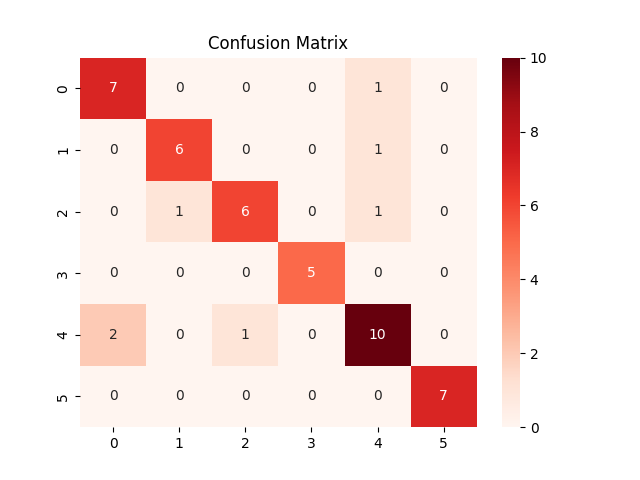
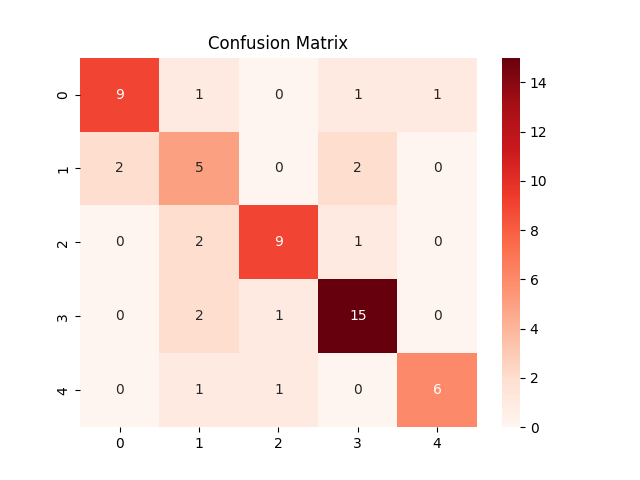
adapted to new data

diff --git a/Anomalieerkennung_DNN/train.py b/Anomalieerkennung_DNN/train.py
@@ -15,20 +15,20 @@ def train_cnn(epoch, batch_size, train_images, train_labels, val_images, val_lab
         layers.Flatten(),
         layers.Dense(128, activation='relu'),
         layers.Dropout(0.2),
-        layers.Dense(6, activation='softmax')])
+        layers.Dense(5, activation='softmax')])
 
     # compile cnn
     cnn_model.compile(optimizer='adam',
                       loss=tf.keras.losses.SparseCategoricalCrossentropy(),
                       metrics=['accuracy'])
     
-    #callback = tf.keras.callbacks.EarlyStopping(monitor='val_loss', patience=10)
-    #reduce_lr = tf.keras.callbacks.ReduceLROnPlateau(monitor='val_loss', factor=0.2,
-    #                          patience=5, min_lr=0.001)
+    callback = tf.keras.callbacks.EarlyStopping(monitor='val_accuracy', patience=7, restore_best_weights=True)
+    reduce_lr = tf.keras.callbacks.ReduceLROnPlateau(monitor='val_accuracy', factor=0.2,
+                              patience=5, min_lr=0.001)
 
     # fit cnn
     history = cnn_model.fit(train_images, train_labels,
-                            batch_size=batch_size, epochs=epoch, validation_data=(val_images, val_labels))
+                            batch_size=batch_size, epochs=epoch, validation_data=(val_images, val_labels), callbacks=[callback, reduce_lr])
 
     cnn_history_df = pd.DataFrame(history.history)
 
@@ -42,21 +42,21 @@ def train_minicnn(epoch, batch_size, train_images, train_labels, val_images, val
                       padding='same', input_shape=(224, 224, 3)),
         layers.MaxPooling2D(2, 2),
         layers.Flatten(),
-        layers.Dense(6, activation='softmax')])
+        layers.Dense(5, activation='softmax')])
 
     # compile mini cnn
     mini_cnn_model.compile(optimizer='adam',
                            loss=tf.keras.losses.SparseCategoricalCrossentropy(),
                            metrics=['accuracy'])
     
-    #callback = tf.keras.callbacks.EarlyStopping(monitor='val_loss', patience=10)
-    #reduce_lr = tf.keras.callbacks.ReduceLROnPlateau(monitor='val_loss', factor=0.2,
-    #               patience=5, min_lr=0.001)
+    callback = tf.keras.callbacks.EarlyStopping(monitor='val_accuracy', patience=7, restore_best_weights=True)
+    reduce_lr = tf.keras.callbacks.ReduceLROnPlateau(monitor='val_accuracy', factor=0.2,
+                   patience=5, min_lr=0.001)
 
 
     # fit mini cnn
     history = mini_cnn_model.fit(train_images, train_labels,
-                                 batch_size=batch_size, epochs=epoch, validation_data=(val_images, val_labels))
+                                 batch_size=batch_size, epochs=epoch, validation_data=(val_images, val_labels), callbacks=[callback, reduce_lr])
 
     mini_cnn_history_df = pd.DataFrame(history.history)
 

diff --git a/Anomalieerkennung_DNN/main.py b/Anomalieerkennung_DNN/main.py
@@ -17,7 +17,7 @@ image_directory = './Anomalieerkennung_DNN/data_dnn/seitlich'
 image_size = (224, 224)
 
 # Anzahl der augmentierten Bilder pro Originalbild
-num_augmented_images_per_original = 10
+num_augmented_images_per_original = 8
 
 # Laden der Bilder und Umwandeln in Arrays
 def load_images_from_directory(directory, size):
@@ -47,7 +47,7 @@ labels = label_encoder.fit_transform(labels)
 
 # Daten teilen
 # Zuerst 60% Training und 40% temporär
-X_train, X_temp, y_train, y_temp = train_test_split(images, labels, test_size=0.3, random_state=42, stratify=labels)
+X_train, X_temp, y_train, y_temp = train_test_split(images, labels, test_size=0.42, random_state=42, stratify=labels)
 # Dann die temporären Daten in 50% Validierung und 50% Test teilen
 X_val, X_test, y_val, y_test = train_test_split(X_temp, y_temp, test_size=0.5, random_state=42, stratify=y_temp)
 
@@ -98,7 +98,7 @@ y_train_augmented = np.concatenate((y_train, augmented_labels))
 print('Neue Trainingsdaten:', X_train_augmented.shape, y_train_augmented.shape)
 
 epoch = 30
-batch_size = 2
+batch_size = 8
 
 # train cnn
 cnn_model, cnn_history = train_cnn(epoch, batch_size, X_train_augmented, y_train_augmented, X_val, y_val)
@@ -132,12 +132,26 @@ if file_prediction:
 # predict on test data
 cnn_test_probs = cnn_model.predict(X_test)
 cnn_test_pred = np.argmax(cnn_test_probs, axis=1)
-cnn_test_pred = label_encoder.inverse_transform(cnn_test_pred)  # Rücktransformation der numerischen Labels in die ursprünglichen Labels
 
 
 mini_cnn_test_probs = mini_cnn_model.predict(X_test)
 mini_cnn_test_pred = np.argmax(mini_cnn_test_probs, axis=1)
+
+# Ausgabe Loss und Accuracy auf Testdaten
+
+cnn_test_loss, cnn_test_accuracy = cnn_model.evaluate(X_test, y_test, verbose=0)
+mini_cnn_test_loss, mini_cnn_test_accuracy = mini_cnn_model.evaluate(X_test, y_test, verbose=0)
+
+print(f"Test Loss CNN: {cnn_test_loss}")
+print(f"Test Accuracy CNN: {cnn_test_accuracy}")
+
+print(f"Test Loss MiniCNN: {mini_cnn_test_loss}")
+print(f"Test Accuracy MiniCNN: {mini_cnn_test_accuracy}")
+
+
+cnn_test_pred = label_encoder.inverse_transform(cnn_test_pred)  # Rücktransformation der numerischen Labels in die ursprünglichen Labels
 mini_cnn_test_pred = label_encoder.inverse_transform(mini_cnn_test_pred)  # Rücktransformation der numerischen Labels in die ursprünglichen Labels
+
 
 # print counfusion matrix for both cnns
 y_test = label_encoder.inverse_transform(y_test)
@@ -149,3 +163,6 @@ plot_confusion_matrix(y_test, mini_cnn_test_pred, "./Anomalieerkennung_DNN/mini_
 
 plot_loss(cnn_history, mini_cnn_history, save_path="./Anomalieerkennung_DNN/loss.png")
 plot_accuracy(cnn_history, mini_cnn_history, save_path="./Anomalieerkennung_DNN/accuracy.png")
+
+
+
